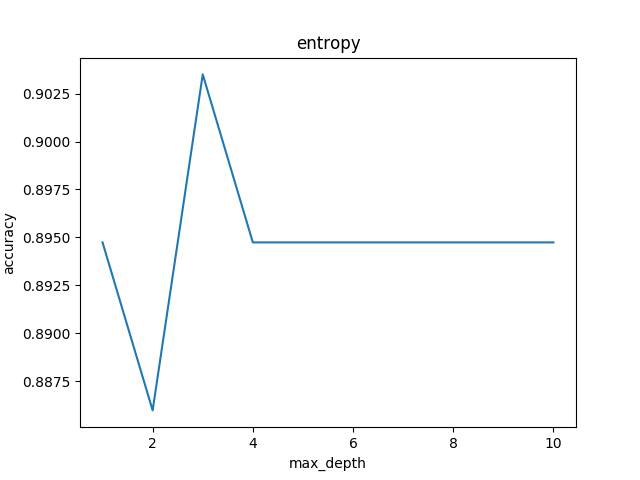
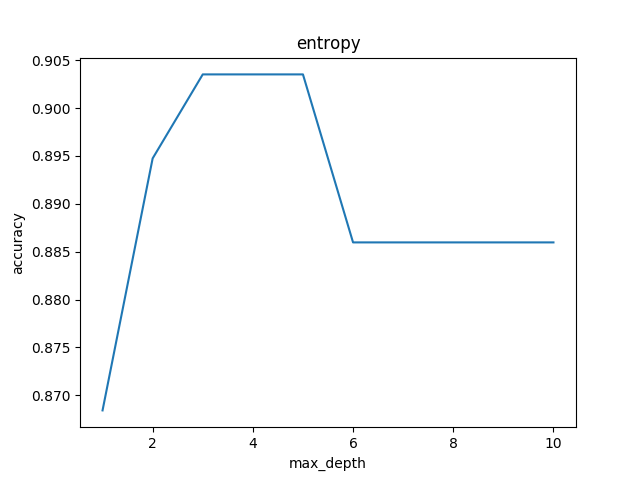
fix #4

diff --git a/4hw.py b/4hw.py
@@ -6,10 +6,9 @@ import decision_tree as dt
 import roc
 
 
-def get_best_tree(impurity, data, labels):
-    train_data, test_data, train_labels, test_labels = train_test_split(data, labels, train_size=0.8, test_size=0.2)
-
+def get_best_tree(impurity, train_data, test_data, train_labels, test_labels):
     max_max_deps = 10
+    depth = 0
     accuracy_list = np.empty(max_max_deps)
     res_tree = None
     res_accuracy = 0
@@ -21,6 +20,7 @@ def get_best_tree(impurity, data, labels):
         if res_accuracy < accuracy:
             res_tree = tree
             res_accuracy = accuracy
+            depth = max_depth
         accuracy_list[max_depth - 1] = accuracy
 
     plt.figure()
@@ -30,7 +30,7 @@ def get_best_tree(impurity, data, labels):
     plt.ylabel("accuracy")
     plt.pause(0.001)
 
-    return res_tree
+    return depth, res_tree
 
 
 plt.ion()
@@ -40,22 +40,36 @@ plt.ion()
 # c_labels = np.array([1 if l == 'M' else 0 for l in c_df['label'].values])
 # c_df = c_df.values
 # c_data = c_df[:, 1:]
+# c_tr_data, c_te_data, c_tr_labels, c_te_labels = train_test_split(c_data, c_labels, train_size=0.8, test_size=0.2)
 #
-# for i, impurity in enumerate([dt.misclass_err, dt.entropy, dt.gini_index]):
+#
+# impurity_list = [dt.misclass_err, dt.entropy, dt.gini_index]
+# for i, impurity in enumerate(impurity_list):
 #     print("impurity: " + impurity.__name__)
-#     tree = get_best_tree(impurity, c_data, c_labels)
-#     roc.evaluate_best_features(c_data, tree.predict(c_data))
-
+#
+#     max_depth, tree = get_best_tree(impurity, c_tr_data, c_te_data, c_tr_labels, c_te_labels)
+#     new_tag = tree.predict_probability(c_data)
+#
+#     roc.evaluate_roc_auc(new_tag, c_labels, impurity.__name__ + " max_depth: " + max_depth.__str__())
 
 # spam
 s_df = pd.read_csv("spam.csv")
 s_df = s_df.values
 s_labels = s_df[:, -1]
 s_data = s_df[:, 0:-1]
+s_tr_data, s_te_data, s_tr_labels, s_te_labels = train_test_split(s_data, s_labels, train_size=0.8, test_size=0.2)
 
-for i, impurity in enumerate([dt.misclass_err, dt.entropy, dt.gini_index]):
-    tree = get_best_tree(impurity, s_data, s_labels)
-    roc.evaluate_best_features(s_data, tree.predict(s_data))
+
+impurity_list = [dt.misclass_err, dt.entropy, dt.gini_index]
+for i, impurity in enumerate(impurity_list):
+    print("impurity: " + impurity.__name__)
+
+    max_depth, tree = get_best_tree(impurity, s_tr_data, s_te_data, s_tr_labels, s_te_labels)
+    new_tag = tree.predict_probability(s_data)
+
+    roc.evaluate_roc_auc(new_tag, s_labels, impurity.__name__ + " max_depth: " + max_depth.__str__())
+
+
 
 plt.ioff()
 plt.show()

diff --git a/decision_tree.py b/decision_tree.py
@@ -21,6 +21,7 @@ def gini_index(labels):
 
 class DecisionTree:
     def __init__(self, impurity, max_depth):
+        self.probability = None
         self.impurity = impurity
         self.max_depth = max_depth
         self.depth = 0
@@ -37,6 +38,7 @@ class DecisionTree:
     def build(self, data, labels):
         self.node = collections.Counter(labels).most_common(1)[0][0]
         if self.max_depth == 0:
+            self.probability = labels.sum() / labels.shape[0]
             return self
         res_IG = 0
         for tag_id in range(data.shape[1]):
@@ -52,10 +54,12 @@ class DecisionTree:
                     self.threshold = threshold
                     self.tag_id = tag_id
         if res_IG > 0:
-            self.create_branches(res_IG, data, labels)
+            self.create_branches(data, labels)
+        else:
+            self.probability = labels.sum() / labels.shape[0]
         return self
 
-    def create_branches(self, IG, data, labels):
+    def create_branches(self, data, labels):
         self.is_leaf = False
         l_data = data[:, self.tag_id] <= self.threshold
         self.left = DecisionTree(self.impurity, self.max_depth - 1).build(data[l_data], labels[l_data])
@@ -72,3 +76,13 @@ class DecisionTree:
         r_data = data[:, self.tag_id] > self.threshold
         labels[r_data] = self.right.predict(data[r_data])
         return labels
+
+    def predict_probability(self, data):
+        if self.is_leaf:
+            return np.zeros(data.shape[0]) + self.probability
+        new_tag = np.zeros(data.shape[0])
+        l_data = data[:, self.tag_id] <= self.threshold
+        new_tag[l_data] = self.left.predict_probability(data[l_data])
+        r_data = data[:, self.tag_id] > self.threshold
+        new_tag[r_data] = self.right.predict_probability(data[r_data])
+        return new_tag

diff --git a/roc.py b/roc.py
@@ -10,8 +10,8 @@ def roc(data, labels):
 
     true_positive = labels1
     false_positive = labels0
-    tp_list = []
-    fp_list = []
+    tp_list = [true_positive]
+    fp_list = [false_positive]
     for i, (x, curr_label) in enumerate(zip(data[sorted_index], labels[sorted_index])):
         if i == 0:
             prev = x
@@ -24,7 +24,7 @@ def roc(data, labels):
         prev = x
         fp_list = [false_positive] + fp_list
         tp_list = [true_positive] + tp_list
-    return np.array(tp_list) / labels1, np.array(fp_list) / labels0
+    return np.array([0] + tp_list) / labels1, np.array([0] + fp_list) / labels0
 
 
 def roc_auc(data, labels):
@@ -43,3 +43,11 @@ def evaluate_best_features(data, labels):
         axes[i].plot(fp_list, tp_list)
         axes[i].set_title("feature: %i, roc_auc: %.3f" % (feature_idx, auc))
     plt.show()
+
+
+def evaluate_roc_auc(feature, labels, title):
+    tp_list, fp_list = roc(feature, labels)
+    plt.figure()
+    plt.plot(fp_list, tp_list)
+    plt.title(title + "\nroc_auc: %.3f" % roc_auc(feature, labels))
+    plt.pause(0.001)
